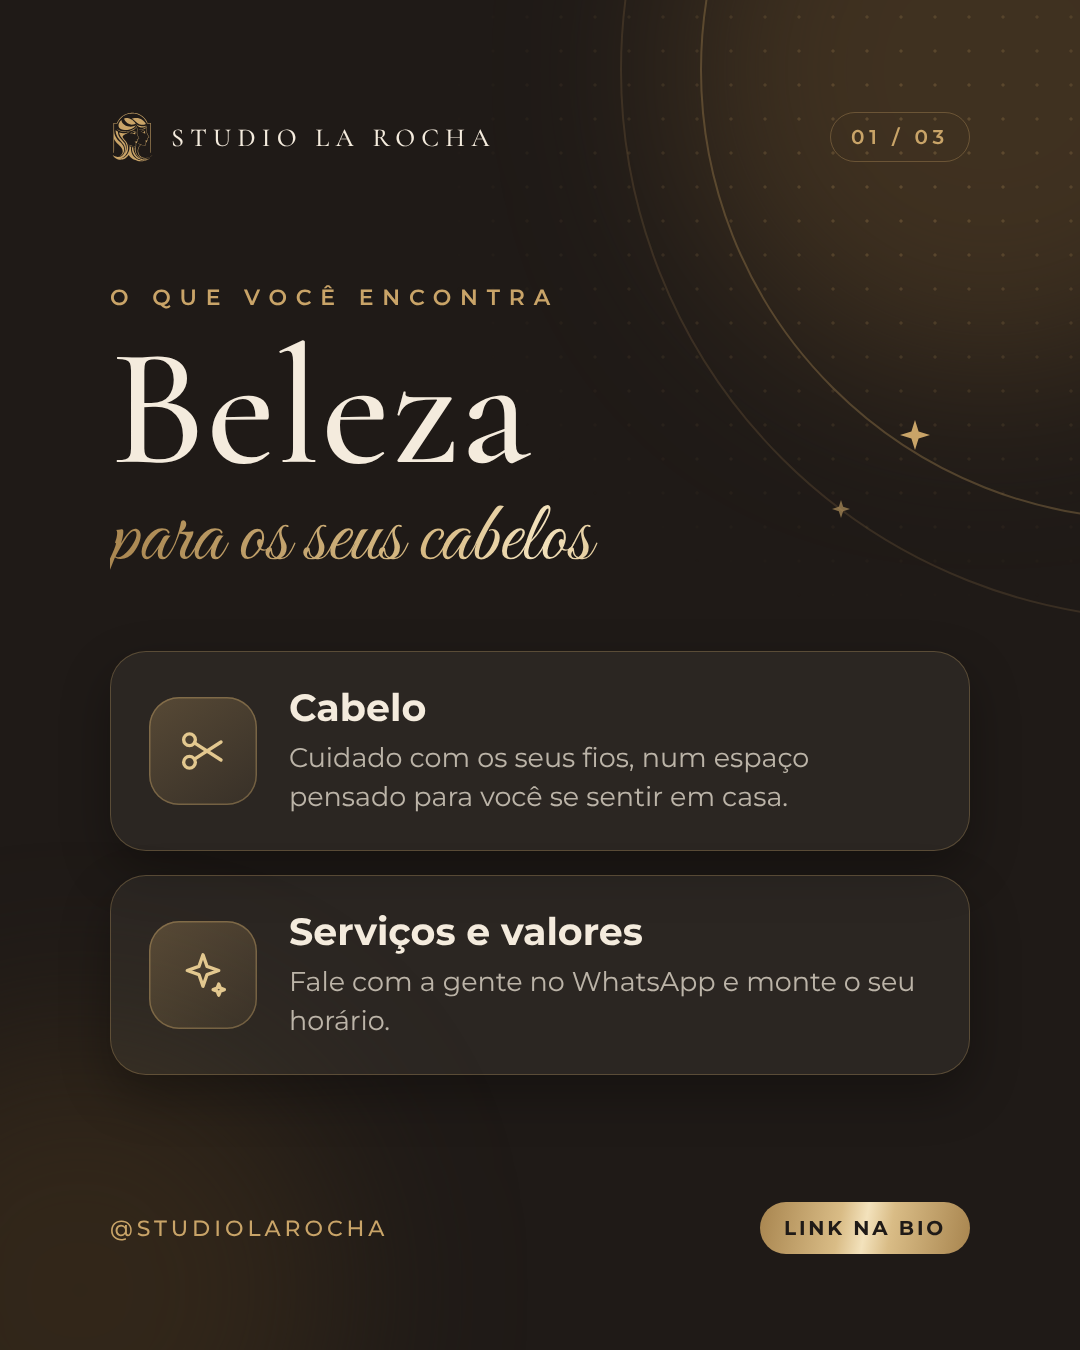
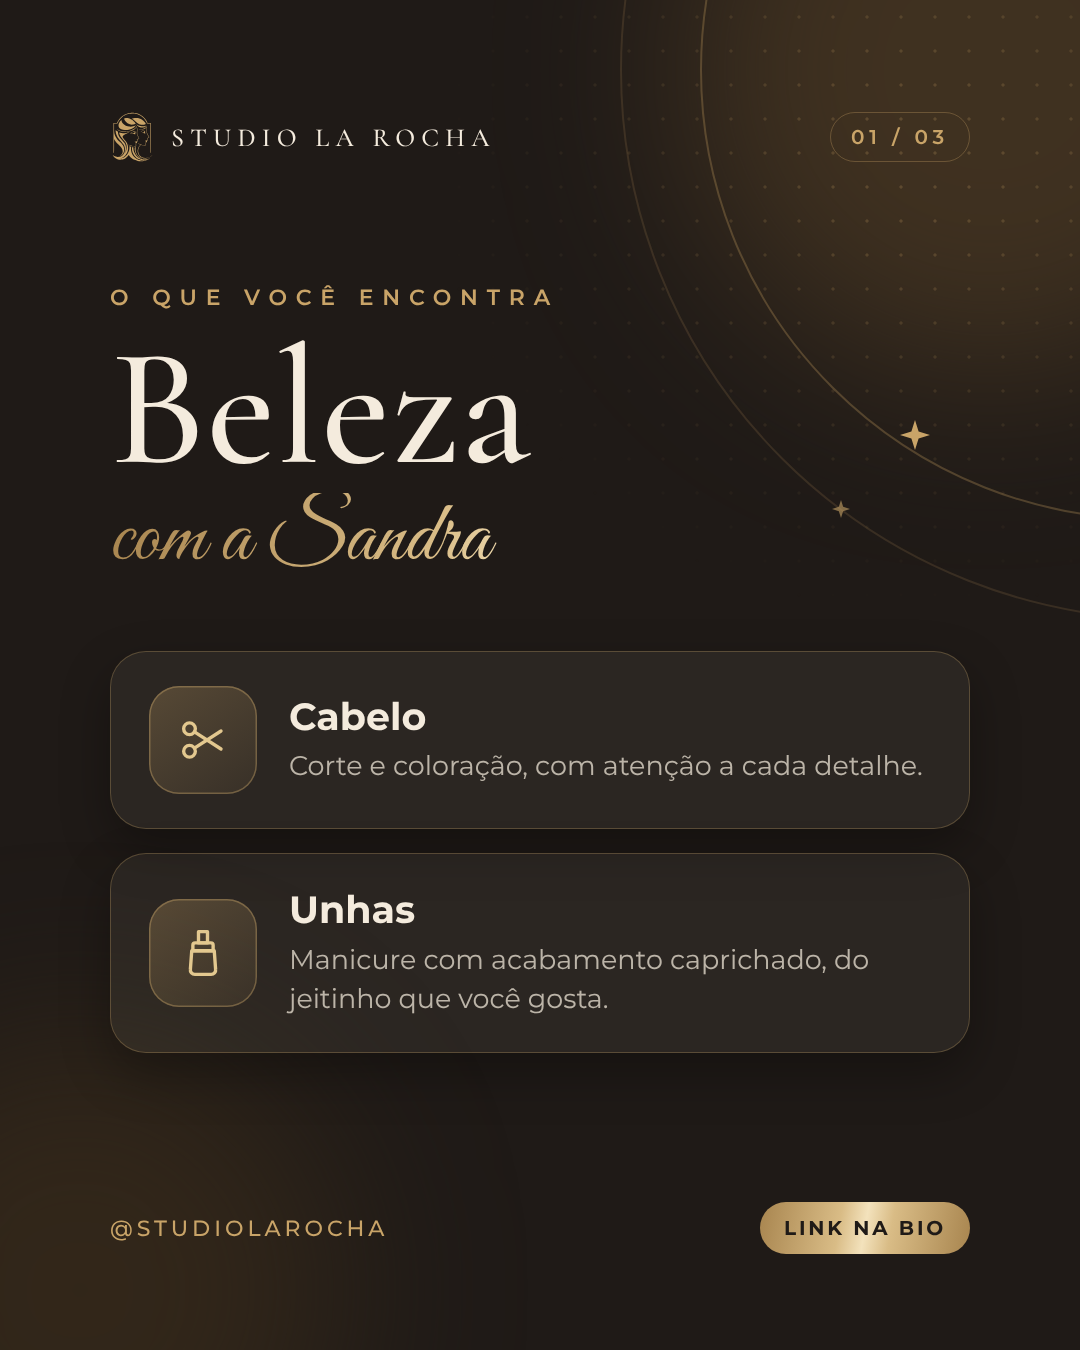
Unhas nos serviços do salão; post Beleza apresenta a Sandra
Página de links: serviços em grade 2x2 (Cabelo, Unhas, Auriculoterapia,
Limpeza de pele), botão de Unhas com mensagem própria no WhatsApp e o
cartão da Amanda dizendo que leva ao site e à agenda dela.
Instagram: post Beleza com a Sandra (cabelo e unhas), bio e legenda novas.

Claude-Session: https://claude.ai/code/session_01XzVqx6kG6obyTxXfpJ6DA2

diff --git a/links/index.html b/links/index.html
@@ -60,9 +60,12 @@ h1{font-family:Cormorant,Georgia,serif;font-weight:500;font-size:clamp(24px,7.2v
 .titulo{font-size:10.5px;font-weight:700;letter-spacing:.24em;text-transform:uppercase;color:var(--bronze);margin:4px 0 12px;display:flex;align-items:center;gap:12px}
 .titulo:before,.titulo:after{content:"";flex:1;height:1px;background:linear-gradient(90deg,transparent,var(--borda))}
 .titulo:after{transform:scaleX(-1)}
-.servicos{display:grid;grid-template-columns:repeat(3,1fr);gap:10px;margin-bottom:22px}
-.servicos a{display:flex;flex-direction:column;align-items:center;gap:9px;padding:16px 6px 14px;border-radius:18px;text-decoration:none;color:var(--tinta);background:var(--vidro);border:1px solid var(--borda);-webkit-backdrop-filter:blur(12px);backdrop-filter:blur(12px);font-weight:700;font-size:12.5px;line-height:1.25;transition:transform .18s,box-shadow .25s,border-color .25s}
-.servicos a small{font-weight:500;font-size:10.5px;color:var(--tinta-2)}
+.servicos{display:grid;grid-template-columns:1fr 1fr;gap:10px;margin-bottom:22px}
+.servicos a{display:flex;align-items:center;gap:10px;padding:11px 10px;text-align:left;min-width:0;border-radius:18px;text-decoration:none;color:var(--tinta);background:var(--vidro);border:1px solid var(--borda);-webkit-backdrop-filter:blur(12px);backdrop-filter:blur(12px);font-weight:700;font-size:12.5px;line-height:1.25;transition:transform .18s,box-shadow .25s,border-color .25s}
+.servicos a span.t{min-width:0}
+.servicos a small{display:block;font-weight:500;font-size:10.5px;color:var(--tinta-2);margin-top:2px}
+.servicos .ico{width:40px;height:40px;border-radius:12px;flex:none}
+.servicos .ico svg{width:21px;height:21px}
 .servicos a:active{transform:scale(.96)}
 .servicos a:hover{border-color:var(--ouro);box-shadow:0 10px 24px rgba(142,110,62,.14)}
 .ico{width:44px;height:44px;border-radius:14px;display:grid;place-items:center;background:linear-gradient(145deg,#FFF8EC,#F1E3C8);box-shadow:inset 0 0 0 1px rgba(176,141,87,.25),0 6px 14px rgba(142,110,62,.12)}
@@ -129,34 +132,35 @@ a.l.principal .ico{background:linear-gradient(145deg,#2F8F5B,#25D366);box-shadow
   <div class="local entra" style="--o:4"><svg viewBox="0 0 24 24" fill="none" stroke="#B08D57" stroke-width="2" stroke-linecap="round" stroke-linejoin="round" aria-hidden="true"><path d="M12 21s-7-6.2-7-11.5a7 7 0 0 1 14 0C19 14.8 12 21 12 21z"/><circle cx="12" cy="9.5" r="2.5"/></svg>Mauá · SP</div>
 
   <div class="titulo entra" style="--o:5">O que você encontra aqui</div>
-  <!-- A CONFIRMAR com a Sandra: os serviços de cabelo -->
+  <!-- Sandra: cabelo (corte e coloração; a confirmar o resto) e unhas. Amanda: auriculoterapia e limpeza de pele -->
   <div class="servicos">
-    <a class="entra" style="--o:6" data-wa="cabelo" href="https://wa.me/5511967682546?text=Oi%21%20%F0%9F%A4%8D%20Vim%20pelo%20site%20do%20Studio%20La%20Rocha%20e%20queria%20saber%20dos%20servi%C3%A7os%20de%20cabelo%20e%20dos%20valores."><span class="ico"><svg viewBox="0 0 24 24" fill="none" stroke="#9C7A45" stroke-width="1.7" stroke-linecap="round" stroke-linejoin="round" aria-hidden="true"><circle cx="6" cy="7" r="2.6"/><circle cx="6" cy="17" r="2.6"/><path d="M8.2 8.4L20 16M8.2 15.6L20 8"/></svg></span>Cabelo<small>Beleza</small></a>
-    <a class="entra" style="--o:7" href="https://amandarochabemestar.com.br/#agendar"><span class="ico"><svg viewBox="0 0 24 24" fill="none" stroke="#9C7A45" stroke-width="1.7" stroke-linecap="round" stroke-linejoin="round" aria-hidden="true"><path d="M8 18c-2-2-3-4-3-7a7 7 0 0 1 14 0c0 3-2.5 4.5-4 6.5S13.5 21 11 21c-1.5 0-2.5-1-3-3z"/><path d="M9 11a3 3 0 0 1 6 0c0 2-2 2.5-2 4"/></svg></span>Auriculo&shy;terapia<small>Saúde</small></a>
-    <a class="entra" style="--o:8" href="https://amandarochabemestar.com.br/#agendar"><span class="ico"><svg viewBox="0 0 24 24" fill="none" stroke="#9C7A45" stroke-width="1.7" stroke-linecap="round" stroke-linejoin="round" aria-hidden="true"><path d="M12 3c3 4 6 7 6 10.5A6 6 0 0 1 6 13.5C6 10 9 7 12 3z"/><path d="M9.5 14.5a2.6 2.6 0 0 0 2.5 2"/></svg></span>Limpeza de pele<small>Bem-estar</small></a>
+    <a class="entra" style="--o:6" data-wa="cabelo" href="https://wa.me/5511967682546?text=Oi%21%20%F0%9F%A4%8D%20Vim%20pelo%20site%20do%20Studio%20La%20Rocha%20e%20queria%20saber%20dos%20servi%C3%A7os%20de%20cabelo%20e%20dos%20valores."><span class="ico"><svg viewBox="0 0 24 24" fill="none" stroke="#9C7A45" stroke-width="1.7" stroke-linecap="round" stroke-linejoin="round" aria-hidden="true"><circle cx="6" cy="7" r="2.6"/><circle cx="6" cy="17" r="2.6"/><path d="M8.2 8.4L20 16M8.2 15.6L20 8"/></svg></span><span class="t">Cabelo<small>Corte e coloração</small></span></a>
+    <a class="entra" style="--o:7" data-wa="unhas" href="https://wa.me/5511967682546?text=Oi%21%20%F0%9F%A4%8D%20Vim%20pelo%20site%20do%20Studio%20La%20Rocha%20e%20queria%20agendar%20as%20unhas."><span class="ico"><svg viewBox="0 0 24 24" fill="none" stroke="#9C7A45" stroke-width="1.7" stroke-linecap="round" stroke-linejoin="round" aria-hidden="true"><path d="M10 2.5h4v5h-4z"/><path d="M8.5 7.5h7a1 1 0 0 1 1 1V11h-9V8.5a1 1 0 0 1 1-1z"/><path d="M7 11h10l.6 8.2a2 2 0 0 1-2 2.3H8.4a2 2 0 0 1-2-2.3z"/></svg></span><span class="t">Unhas<small>Manicure caprichada</small></span></a>
+    <a class="entra" style="--o:8" href="https://amandarochabemestar.com.br/#agendar"><span class="ico"><svg viewBox="0 0 24 24" fill="none" stroke="#9C7A45" stroke-width="1.7" stroke-linecap="round" stroke-linejoin="round" aria-hidden="true"><path d="M8 18c-2-2-3-4-3-7a7 7 0 0 1 14 0c0 3-2.5 4.5-4 6.5S13.5 21 11 21c-1.5 0-2.5-1-3-3z"/><path d="M9 11a3 3 0 0 1 6 0c0 2-2 2.5-2 4"/></svg></span><span class="t">Auriculoterapia<small>Enfermeira Amanda</small></span></a>
+    <a class="entra" style="--o:9" href="https://amandarochabemestar.com.br/#agendar"><span class="ico"><svg viewBox="0 0 24 24" fill="none" stroke="#9C7A45" stroke-width="1.7" stroke-linecap="round" stroke-linejoin="round" aria-hidden="true"><path d="M12 3c3 4 6 7 6 10.5A6 6 0 0 1 6 13.5C6 10 9 7 12 3z"/><path d="M9.5 14.5a2.6 2.6 0 0 0 2.5 2"/></svg></span><span class="t">Limpeza de pele<small>Enfermeira Amanda</small></span></a>
   </div>
 
   <nav>
     <!-- A CONFIRMAR: número oficial do salão (hoje, o WhatsApp da Sandra) -->
-    <a class="l principal entra" style="--o:9" data-wa="agendar" href="https://wa.me/5511967682546?text=Oi%21%20%F0%9F%A4%8D%20Vim%20pelo%20site%20do%20Studio%20La%20Rocha%20e%20gostaria%20de%20agendar%20um%20hor%C3%A1rio.%20Quais%20dias%20voc%C3%AA%20tem%20dispon%C3%ADveis%3F"><span class="ico wa"><svg viewBox="0 0 32 32" aria-hidden="true"><path fill="#fff" d="M16 4.5a11.5 11.5 0 0 0-9.9 17.3L4.5 27.5l5.9-1.5A11.5 11.5 0 1 0 16 4.5zm6.7 16.1c-.3.8-1.6 1.6-2.3 1.7-1.1.2-1.9.1-4.2-.8-3.5-1.5-5.7-5-5.9-5.3-.2-.2-1.4-1.8-1.4-3.5s.9-2.5 1.2-2.9c.3-.3.7-.4.9-.4h.6c.2 0 .5-.1.8.6l1.1 2.5c.1.2.1.4 0 .6-.6 1.3-1.3 1.2-.9 1.9a9.4 9.4 0 0 0 4.7 4.1c.4.2.6.2.8-.1l1-1.3c.3-.4.5-.3.8-.2l2.3 1.1c.4.2.6.3.7.4.1.2.1.9-.2 1.6z"/></svg></span><span class="txt">Agendar pelo WhatsApp<small>Resposta da equipe do salão</small></span><span class="seta"><svg viewBox="0 0 24 24" fill="none" stroke="currentColor" stroke-width="2.4" stroke-linecap="round" stroke-linejoin="round"><path d="M9 6l6 6-6 6"/></svg></span></a>
+    <a class="l principal entra" style="--o:10" data-wa="agendar" href="https://wa.me/5511967682546?text=Oi%21%20%F0%9F%A4%8D%20Vim%20pelo%20site%20do%20Studio%20La%20Rocha%20e%20gostaria%20de%20agendar%20um%20hor%C3%A1rio.%20Quais%20dias%20voc%C3%AA%20tem%20dispon%C3%ADveis%3F"><span class="ico wa"><svg viewBox="0 0 32 32" aria-hidden="true"><path fill="#fff" d="M16 4.5a11.5 11.5 0 0 0-9.9 17.3L4.5 27.5l5.9-1.5A11.5 11.5 0 1 0 16 4.5zm6.7 16.1c-.3.8-1.6 1.6-2.3 1.7-1.1.2-1.9.1-4.2-.8-3.5-1.5-5.7-5-5.9-5.3-.2-.2-1.4-1.8-1.4-3.5s.9-2.5 1.2-2.9c.3-.3.7-.4.9-.4h.6c.2 0 .5-.1.8.6l1.1 2.5c.1.2.1.4 0 .6-.6 1.3-1.3 1.2-.9 1.9a9.4 9.4 0 0 0 4.7 4.1c.4.2.6.2.8-.1l1-1.3c.3-.4.5-.3.8-.2l2.3 1.1c.4.2.6.3.7.4.1.2.1.9-.2 1.6z"/></svg></span><span class="txt">Agendar pelo WhatsApp<small>Resposta da equipe do salão</small></span><span class="seta"><svg viewBox="0 0 24 24" fill="none" stroke="currentColor" stroke-width="2.4" stroke-linecap="round" stroke-linejoin="round"><path d="M9 6l6 6-6 6"/></svg></span></a>
 
-    <a class="l entra" style="--o:10" href="https://amandarochabemestar.com.br/"><span class="ico"><svg viewBox="0 0 24 24" fill="none" stroke="#9C7A45" stroke-width="1.8" stroke-linecap="round" stroke-linejoin="round" aria-hidden="true"><circle cx="12" cy="8" r="4"/><path d="M4 21c1-4 4-6 8-6s7 2 8 6"/></svg></span><span class="txt">Nossas profissionais<small>Amanda Rocha · Enfermeira</small></span><span class="seta"><svg viewBox="0 0 24 24" fill="none" stroke="currentColor" stroke-width="2.4" stroke-linecap="round" stroke-linejoin="round"><path d="M9 6l6 6-6 6"/></svg></span></a>
+    <a class="l entra" style="--o:11" href="https://amandarochabemestar.com.br/"><span class="ico"><svg viewBox="0 0 24 24" fill="none" stroke="#9C7A45" stroke-width="1.8" stroke-linecap="round" stroke-linejoin="round" aria-hidden="true"><circle cx="12" cy="8" r="4"/><path d="M4 21c1-4 4-6 8-6s7 2 8 6"/></svg></span><span class="txt">Amanda Rocha · Enfermeira<small>Site e agenda da Amanda</small></span><span class="seta"><svg viewBox="0 0 24 24" fill="none" stroke="currentColor" stroke-width="2.4" stroke-linecap="round" stroke-linejoin="round"><path d="M9 6l6 6-6 6"/></svg></span></a>
 
     <!-- LIGAR quando o endereço for confirmado:
-    <a class="l entra" style="--o:11" href="https://www.google.com/maps/search/?api=1&query=ENDERECO+CONFIRMADO+Maua+SP"><span class="ico"><svg viewBox="0 0 24 24" fill="none" stroke="#9C7A45" stroke-width="1.8" stroke-linecap="round" stroke-linejoin="round" aria-hidden="true"><path d="M12 21s-7-6.2-7-11.5a7 7 0 0 1 14 0C19 14.8 12 21 12 21z"/><circle cx="12" cy="9.5" r="2.5"/></svg></span><span class="txt">Como chegar<small>Vila Nova Mauá · Mauá - SP</small></span><span class="seta"><svg viewBox="0 0 24 24" fill="none" stroke="currentColor" stroke-width="2.4" stroke-linecap="round" stroke-linejoin="round"><path d="M9 6l6 6-6 6"/></svg></span></a>
+    <a class="l entra" style="--o:12" href="https://www.google.com/maps/search/?api=1&query=ENDERECO+CONFIRMADO+Maua+SP"><span class="ico"><svg viewBox="0 0 24 24" fill="none" stroke="#9C7A45" stroke-width="1.8" stroke-linecap="round" stroke-linejoin="round" aria-hidden="true"><path d="M12 21s-7-6.2-7-11.5a7 7 0 0 1 14 0C19 14.8 12 21 12 21z"/><circle cx="12" cy="9.5" r="2.5"/></svg></span><span class="txt">Como chegar<small>Vila Nova Mauá · Mauá - SP</small></span><span class="seta"><svg viewBox="0 0 24 24" fill="none" stroke="currentColor" stroke-width="2.4" stroke-linecap="round" stroke-linejoin="round"><path d="M9 6l6 6-6 6"/></svg></span></a>
     -->
 
     <!-- LIGAR quando o contrato de aluguel estiver pronto:
-    <a class="l entra" style="--o:12" data-wa="aluguel" href="https://wa.me/5511967682546?text=Oi%2C%20Sandra%21%20Vim%20pelo%20site%20do%20Studio%20La%20Rocha.%20Sou%20profissional%20de%20beleza%20e%20tenho%20interesse%20no%20aluguel%20de%20cadeira%20ou%20maca."><span class="ico"><svg viewBox="0 0 24 24" fill="none" stroke="#9C7A45" stroke-width="1.8" stroke-linecap="round" stroke-linejoin="round" aria-hidden="true"><path d="M4 11h16v4H4zM6 15v5M18 15v5M7 11V7a2 2 0 0 1 2-2h6a2 2 0 0 1 2 2v4"/></svg></span><span class="txt">Profissional de beleza?<small>Alugue sua cadeira ou maca</small></span><span class="seta"><svg viewBox="0 0 24 24" fill="none" stroke="currentColor" stroke-width="2.4" stroke-linecap="round" stroke-linejoin="round"><path d="M9 6l6 6-6 6"/></svg></span></a>
+    <a class="l entra" style="--o:13" data-wa="aluguel" href="https://wa.me/5511967682546?text=Oi%2C%20Sandra%21%20Vim%20pelo%20site%20do%20Studio%20La%20Rocha.%20Sou%20profissional%20de%20beleza%20e%20tenho%20interesse%20no%20aluguel%20de%20cadeira%20ou%20maca."><span class="ico"><svg viewBox="0 0 24 24" fill="none" stroke="#9C7A45" stroke-width="1.8" stroke-linecap="round" stroke-linejoin="round" aria-hidden="true"><path d="M4 11h16v4H4zM6 15v5M18 15v5M7 11V7a2 2 0 0 1 2-2h6a2 2 0 0 1 2 2v4"/></svg></span><span class="txt">Profissional de beleza?<small>Alugue sua cadeira ou maca</small></span><span class="seta"><svg viewBox="0 0 24 24" fill="none" stroke="currentColor" stroke-width="2.4" stroke-linecap="round" stroke-linejoin="round"><path d="M9 6l6 6-6 6"/></svg></span></a>
     -->
   </nav>
 
-  <div class="acoes entra" style="--o:13">
+  <div class="acoes entra" style="--o:14">
     <a href="studio-la-rocha.vcf" download><svg viewBox="0 0 24 24" fill="none" stroke="currentColor" stroke-width="1.9" stroke-linecap="round" stroke-linejoin="round" aria-hidden="true"><circle cx="9" cy="8" r="3.5"/><path d="M2.5 20c.8-3.4 3.3-5 6.5-5s5.7 1.6 6.5 5M19 8v6M16 11h6"/></svg>Salvar contato</a>
     <button type="button" id="compartilhar"><svg viewBox="0 0 24 24" fill="none" stroke="currentColor" stroke-width="1.9" stroke-linecap="round" stroke-linejoin="round" aria-hidden="true"><path d="M12 3v12M7.5 7.5L12 3l4.5 4.5"/><path d="M5 12v7a2 2 0 0 0 2 2h10a2 2 0 0 0 2-2v-7"/></svg>Compartilhar</button>
   </div>
 
-  <p class="aviso entra" style="--o:14"><svg viewBox="0 0 24 24" fill="none" stroke="currentColor" stroke-width="1.9" stroke-linecap="round" stroke-linejoin="round" aria-hidden="true"><path d="M12 3l7 3v5.5c0 4.4-3 8-7 9.5-4-1.5-7-5.1-7-9.5V6z"/><path d="M9 12l2 2 4-4"/></svg><span><b>Pagamento só no salão.</b> Nunca pedimos Pix ou sinal por mensagem. Na dúvida, fale com a gente por este WhatsApp.</span></p>
+  <p class="aviso entra" style="--o:15"><svg viewBox="0 0 24 24" fill="none" stroke="currentColor" stroke-width="1.9" stroke-linecap="round" stroke-linejoin="round" aria-hidden="true"><path d="M12 3l7 3v5.5c0 4.4-3 8-7 9.5-4-1.5-7-5.1-7-9.5V6z"/><path d="M9 12l2 2 4-4"/></svg><span><b>Pagamento só no salão.</b> Nunca pedimos Pix ou sinal por mensagem. Na dúvida, fale com a gente por este WhatsApp.</span></p>
   <p class="credito">Desenvolvido por Kevin Laet</p>
 </main>
 <div class="toast" id="toast" role="status" aria-live="polite">Link copiado</div>
@@ -176,6 +180,7 @@ a.l.principal .ico{background:linear-gradient(145deg,#2F8F5B,#25D366);box-shadow
   const MENSAGENS = {
     agendar: o => `Oi! 🤍 Vim pelo ${o} e gostaria de agendar um horário. Quais dias você tem disponíveis?`,
     cabelo: o => `Oi! 🤍 Vim pelo ${o} e queria saber dos serviços de cabelo e dos valores.`,
+    unhas: o => `Oi! 🤍 Vim pelo ${o} e queria agendar as unhas.`,
     aluguel: o => `Oi, Sandra! Vim pelo ${o}. Sou profissional de beleza e tenho interesse no aluguel de cadeira ou maca.`,
   };
   const de = (new URLSearchParams(location.search).get('de') || '').toLowerCase();

diff --git a/instagram/fonte/servicos.html b/instagram/fonte/servicos.html
@@ -92,15 +92,15 @@
   <div class="topo"><div class="mini"><img src="simbolo-claro-transp.svg" alt="">STUDIO LA ROCHA</div><div class="contador">01 / 03</div></div>
   <div class="rotulo">O que você encontra</div>
   <h2>Beleza</h2>
-  <div class="script">para os seus cabelos</div>
+  <div class="script">com a Sandra</div>
   <div class="cartoes">
     <div class="cartao">
       <div class="ico"><svg viewBox="0 0 24 24" fill="none" stroke="#E3C88F" stroke-width="1.5" stroke-linecap="round" stroke-linejoin="round"><circle cx="6" cy="7" r="2.6"/><circle cx="6" cy="17" r="2.6"/><path d="M8.2 8.4L20 16M8.2 15.6L20 8"/></svg></div>
-      <div><h3>Cabelo</h3><p>Cuidado com os seus fios, num espaço pensado para você se sentir em casa.</p></div>
+      <div><h3>Cabelo</h3><p>Corte e coloração, com atenção a cada detalhe.</p></div>
     </div>
     <div class="cartao">
-      <div class="ico"><svg viewBox="0 0 24 24" fill="none" stroke="#E3C88F" stroke-width="1.5" stroke-linecap="round" stroke-linejoin="round"><path d="M12 3l1.8 5.2L19 10l-5.2 1.8L12 17l-1.8-5.2L5 10l5.2-1.8z"/><path d="M19 16l.7 1.8 1.8.7-1.8.7L19 21l-.7-1.8-1.8-.7 1.8-.7z"/></svg></div>
-      <div><h3>Serviços e valores</h3><p>Fale com a gente no WhatsApp e monte o seu horário.</p></div>
+      <div class="ico"><svg viewBox="0 0 24 24" fill="none" stroke="#E3C88F" stroke-width="1.5" stroke-linecap="round" stroke-linejoin="round"><path d="M10 2.5h4v5h-4z"/><path d="M8.5 7.5h7a1 1 0 0 1 1 1V11h-9V8.5a1 1 0 0 1 1-1z"/><path d="M7 11h10l.6 8.2a2 2 0 0 1-2 2.3H8.4a2 2 0 0 1-2-2.3z"/></svg></div>
+      <div><h3>Unhas</h3><p>Manicure com acabamento caprichado, do jeitinho que você gosta.</p></div>
     </div>
   </div>
   <div class="rodape"><span>@STUDIOLAROCHA</span><span class="chip">LINK NA BIO</span></div>
